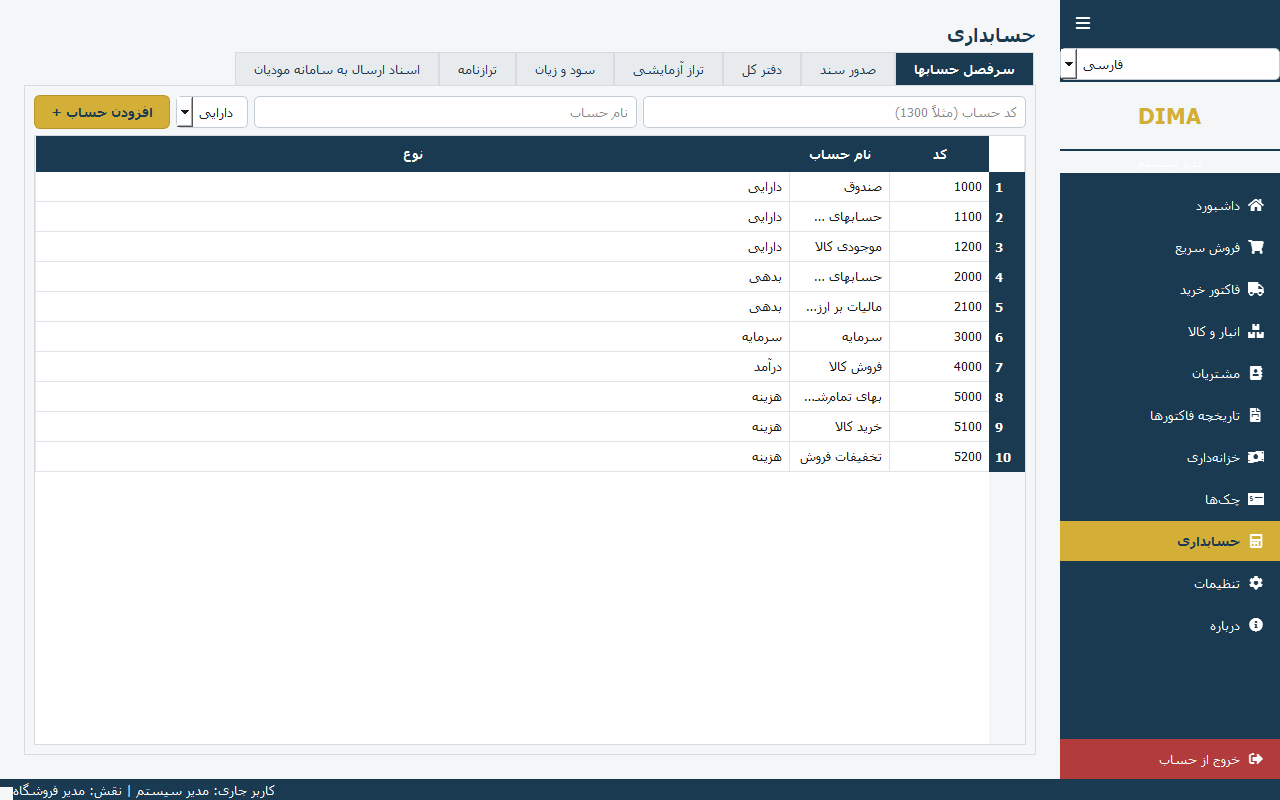
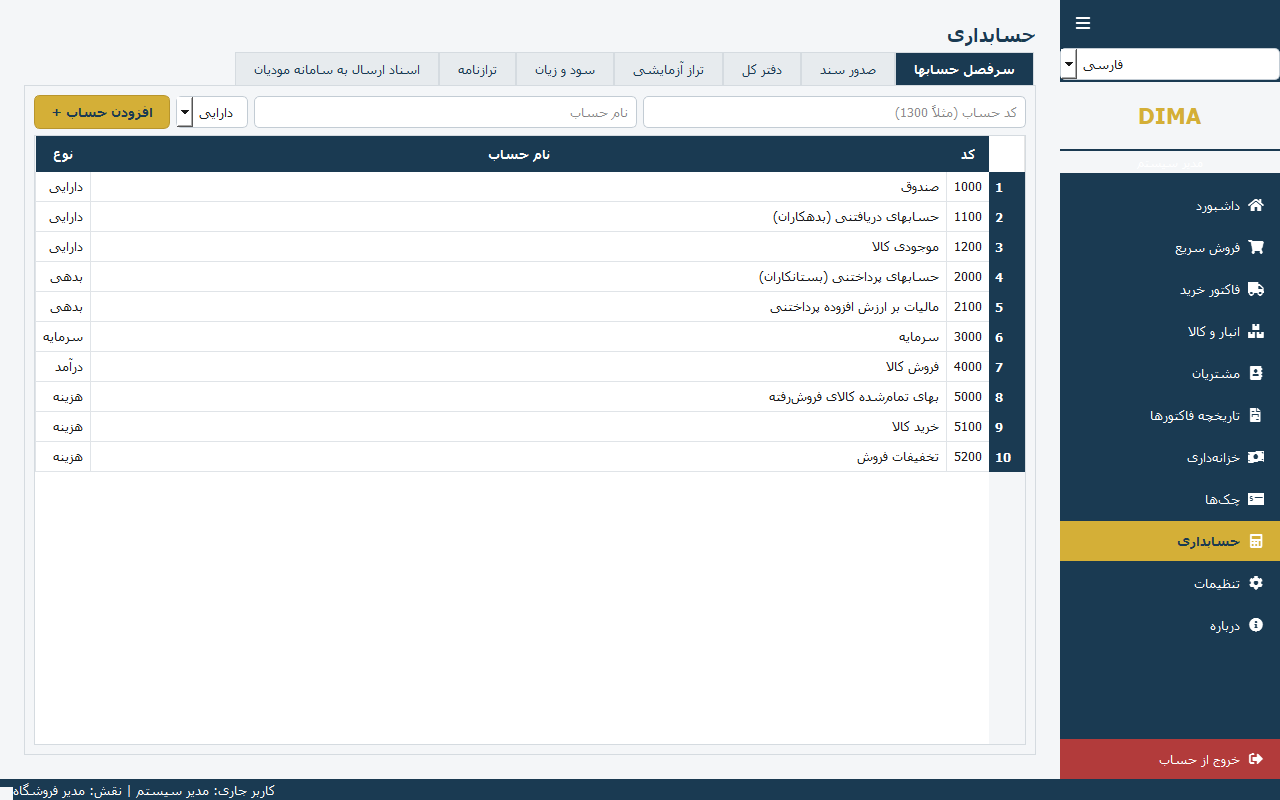
Fix truncated account names in chart of accounts
The name column was sharing the width with the code and type columns, so
long names were elided in the accounting page. Size the code and type
columns to their contents and let the name column take the remaining
space, then refresh the accounting screenshot.

diff --git a/ui/accounting_page.py b/ui/accounting_page.py
@@ -12,7 +12,7 @@ ui/accounting_page.py
 from PyQt6.QtWidgets import (
     QWidget, QVBoxLayout, QHBoxLayout, QLabel, QLineEdit, QPushButton,
     QTableWidget, QTableWidgetItem, QMessageBox, QComboBox, QDoubleSpinBox,
-    QFormLayout, QTabWidget, QDateEdit, QTextEdit
+    QFormLayout, QTabWidget, QDateEdit, QTextEdit, QHeaderView
 )
 from PyQt6.QtCore import Qt, QDate
 
@@ -60,7 +60,10 @@ class ChartOfAccountsTab(QWidget):
 
         self.table = QTableWidget()
         self.table.setColumnCount(3)
-        self.table.horizontalHeader().setStretchLastSection(True)
+        header = self.table.horizontalHeader()
+        header.setSectionResizeMode(0, QHeaderView.ResizeMode.ResizeToContents)
+        header.setSectionResizeMode(1, QHeaderView.ResizeMode.Stretch)
+        header.setSectionResizeMode(2, QHeaderView.ResizeMode.ResizeToContents)
         layout.addWidget(self.table)
 
     def retranslate_ui(self):
